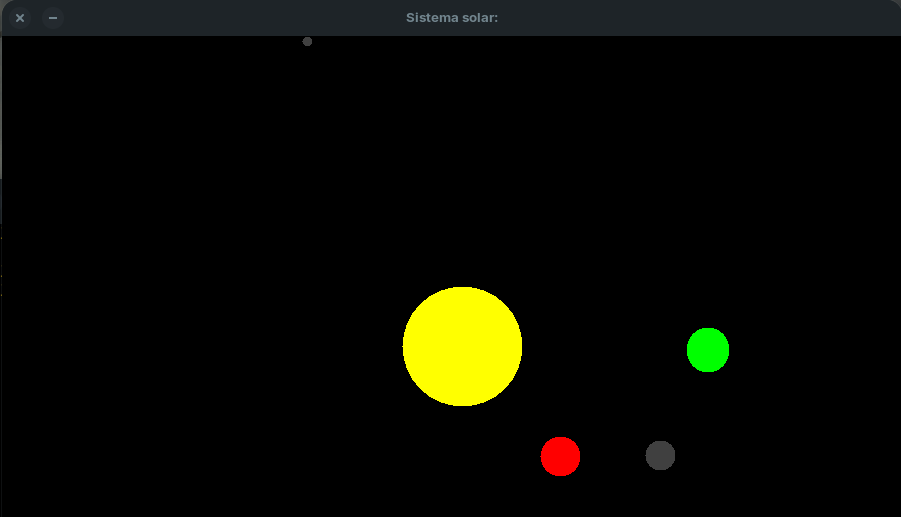
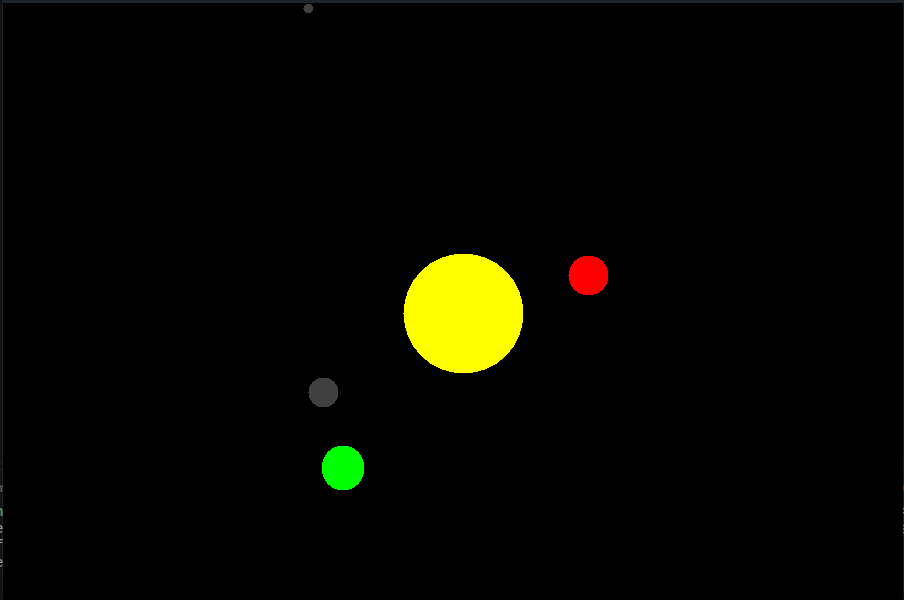
Atualizando o place holder de projetos e a parte iniciar do portfólio

diff --git a/index.html b/index.html
@@ -20,10 +20,10 @@
     <div class="crt-overlay"></div>
     <header class="hud">
         <div class="logo">
-            <span class="logo-symbol">◆</span>
+            <span class="logo-symbol">Guigui</span>
             <div>
                 <span class="logo-name">
-                    GUILHERME.EXE
+                    GUILHERME.DEB
                 </span>
                 <span class="logo-subtitle">
                     SOFTWARE DEVELOPER
@@ -355,7 +355,7 @@
                     </div>
                     <div class="project-content">
                         <span class="project-type">
-                            JAVA / GAME DEV
+                            Java / Game Dev
                         </span>
                         <h3>
                             Java Pong
@@ -405,7 +405,7 @@
                 <article class="project-card">
                     <div class="project-image">
                         <img
-                            src="assets/project3.png"
+                            src="images/fotoRickandMorty.png"
                             alt="API Rest"
                         >
                         <span class="project-number">
@@ -414,18 +414,17 @@
                     </div>
                     <div class="project-content">
                         <span class="project-type">
-                            JAVA / API
+                            Fetch API
                         </span>
                         <h3>
-                            API Rest
+                            Busca de personagens da série Rick and Morty
                         </h3>
                         <p>
-                            API Rest montada em Java
+                            API consumida em JS com fetch API
                         </p>
                         <a
-                            href="#"
+                            href="https://github.com/psppGui/Rick_and_Morty"
                             class="project-button"
-                            
                         >
                             VER PROJETO
                         </a>

diff --git a/style.css b/style.css
@@ -14,7 +14,7 @@ linear-gradient(
 rgba(0, 0, 0, 0.506),
 rgba(15,10,13,0.94)
 ),
-url("images/fundo.jpeg");
+url("images/fundo.png");
 background-size:cover;
 background-position:center;
 background-attachment:fixed;
